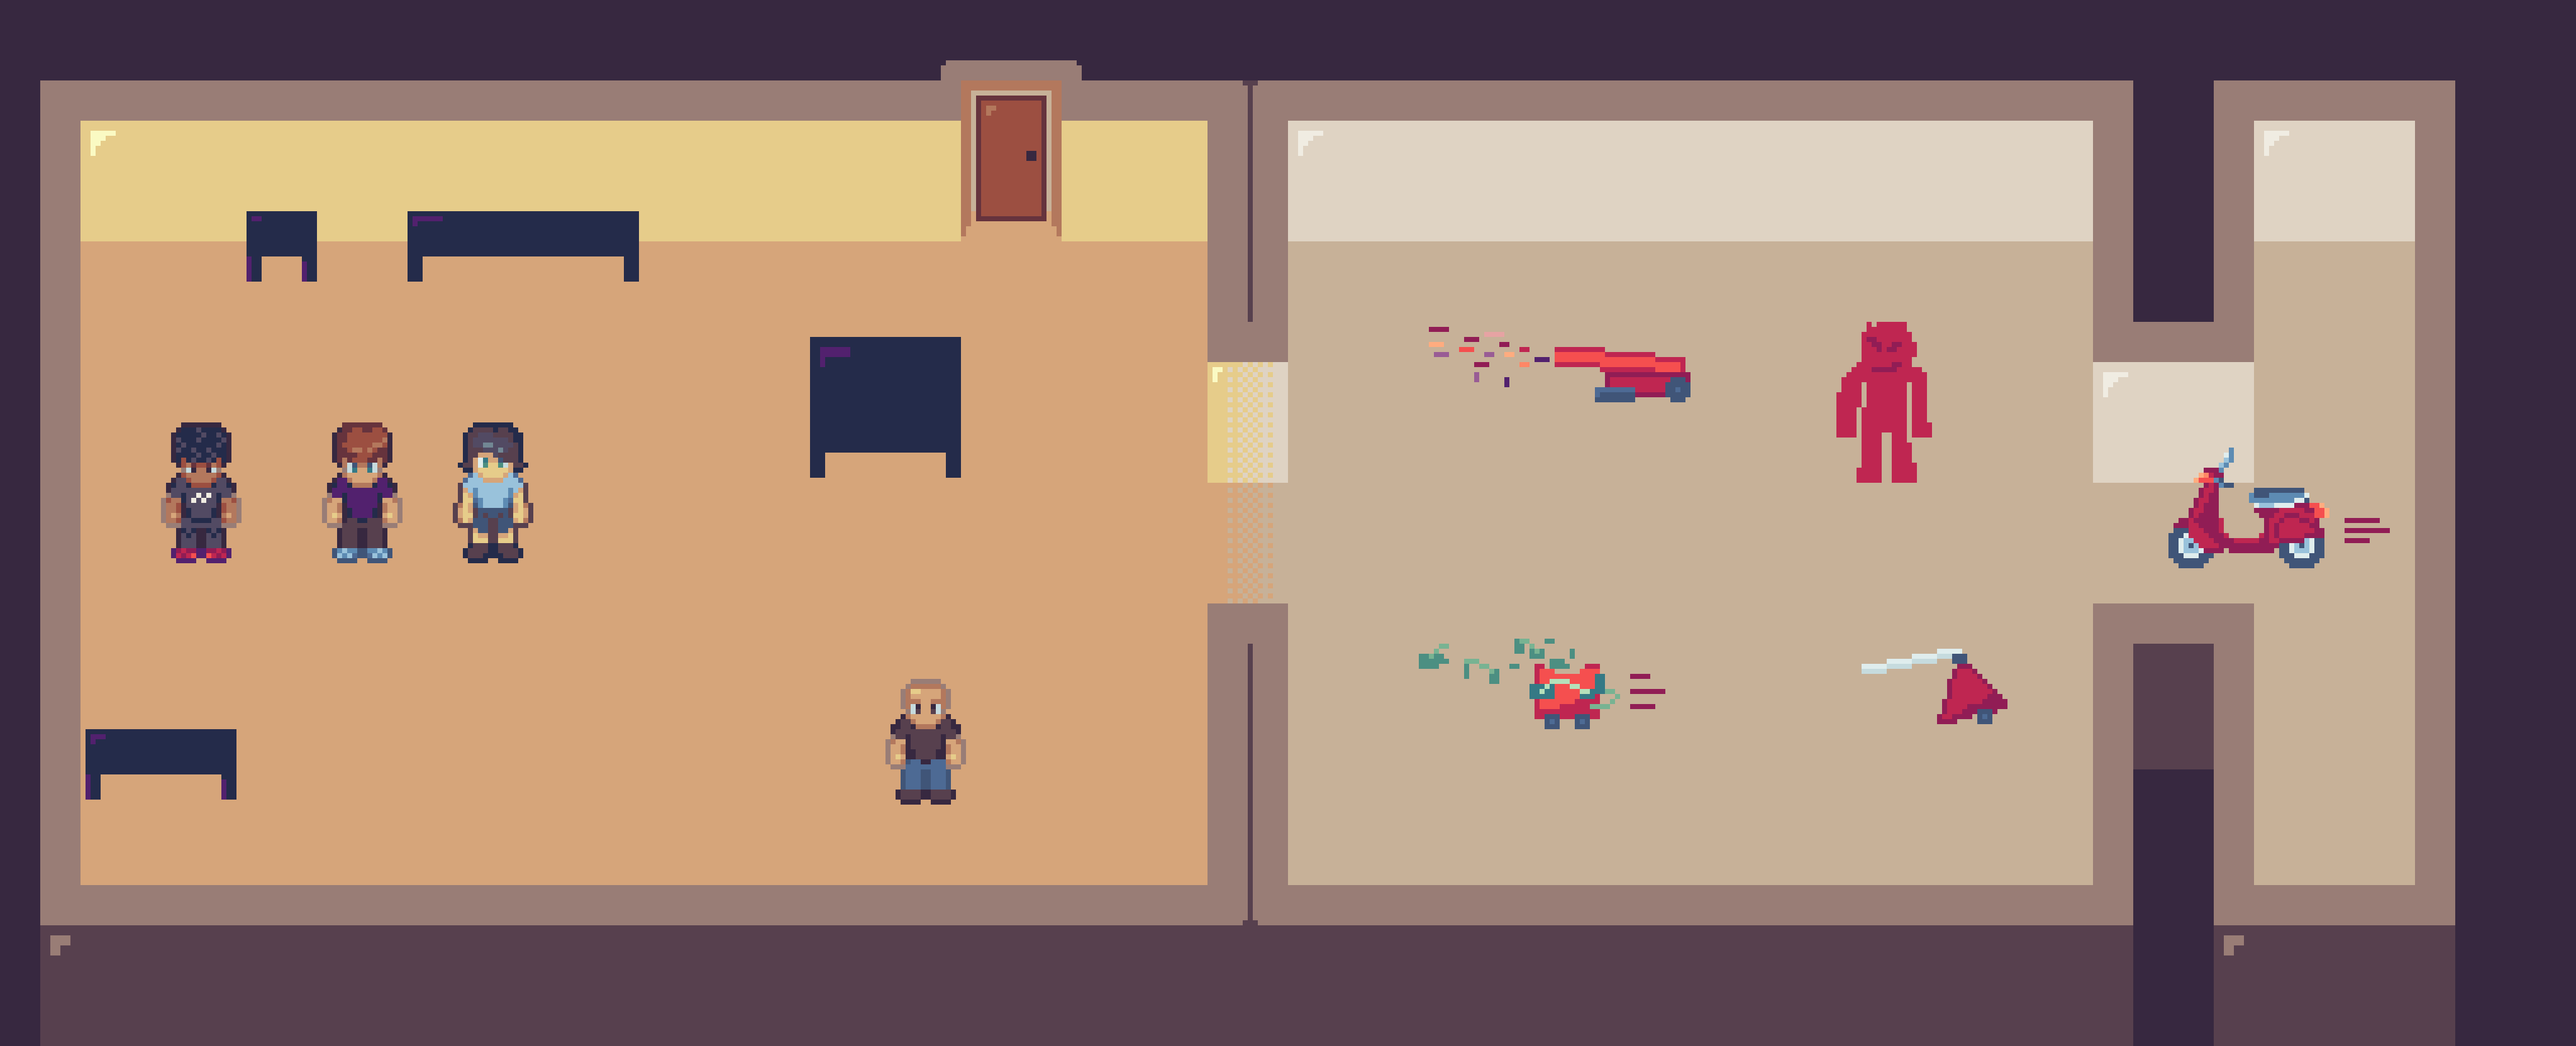
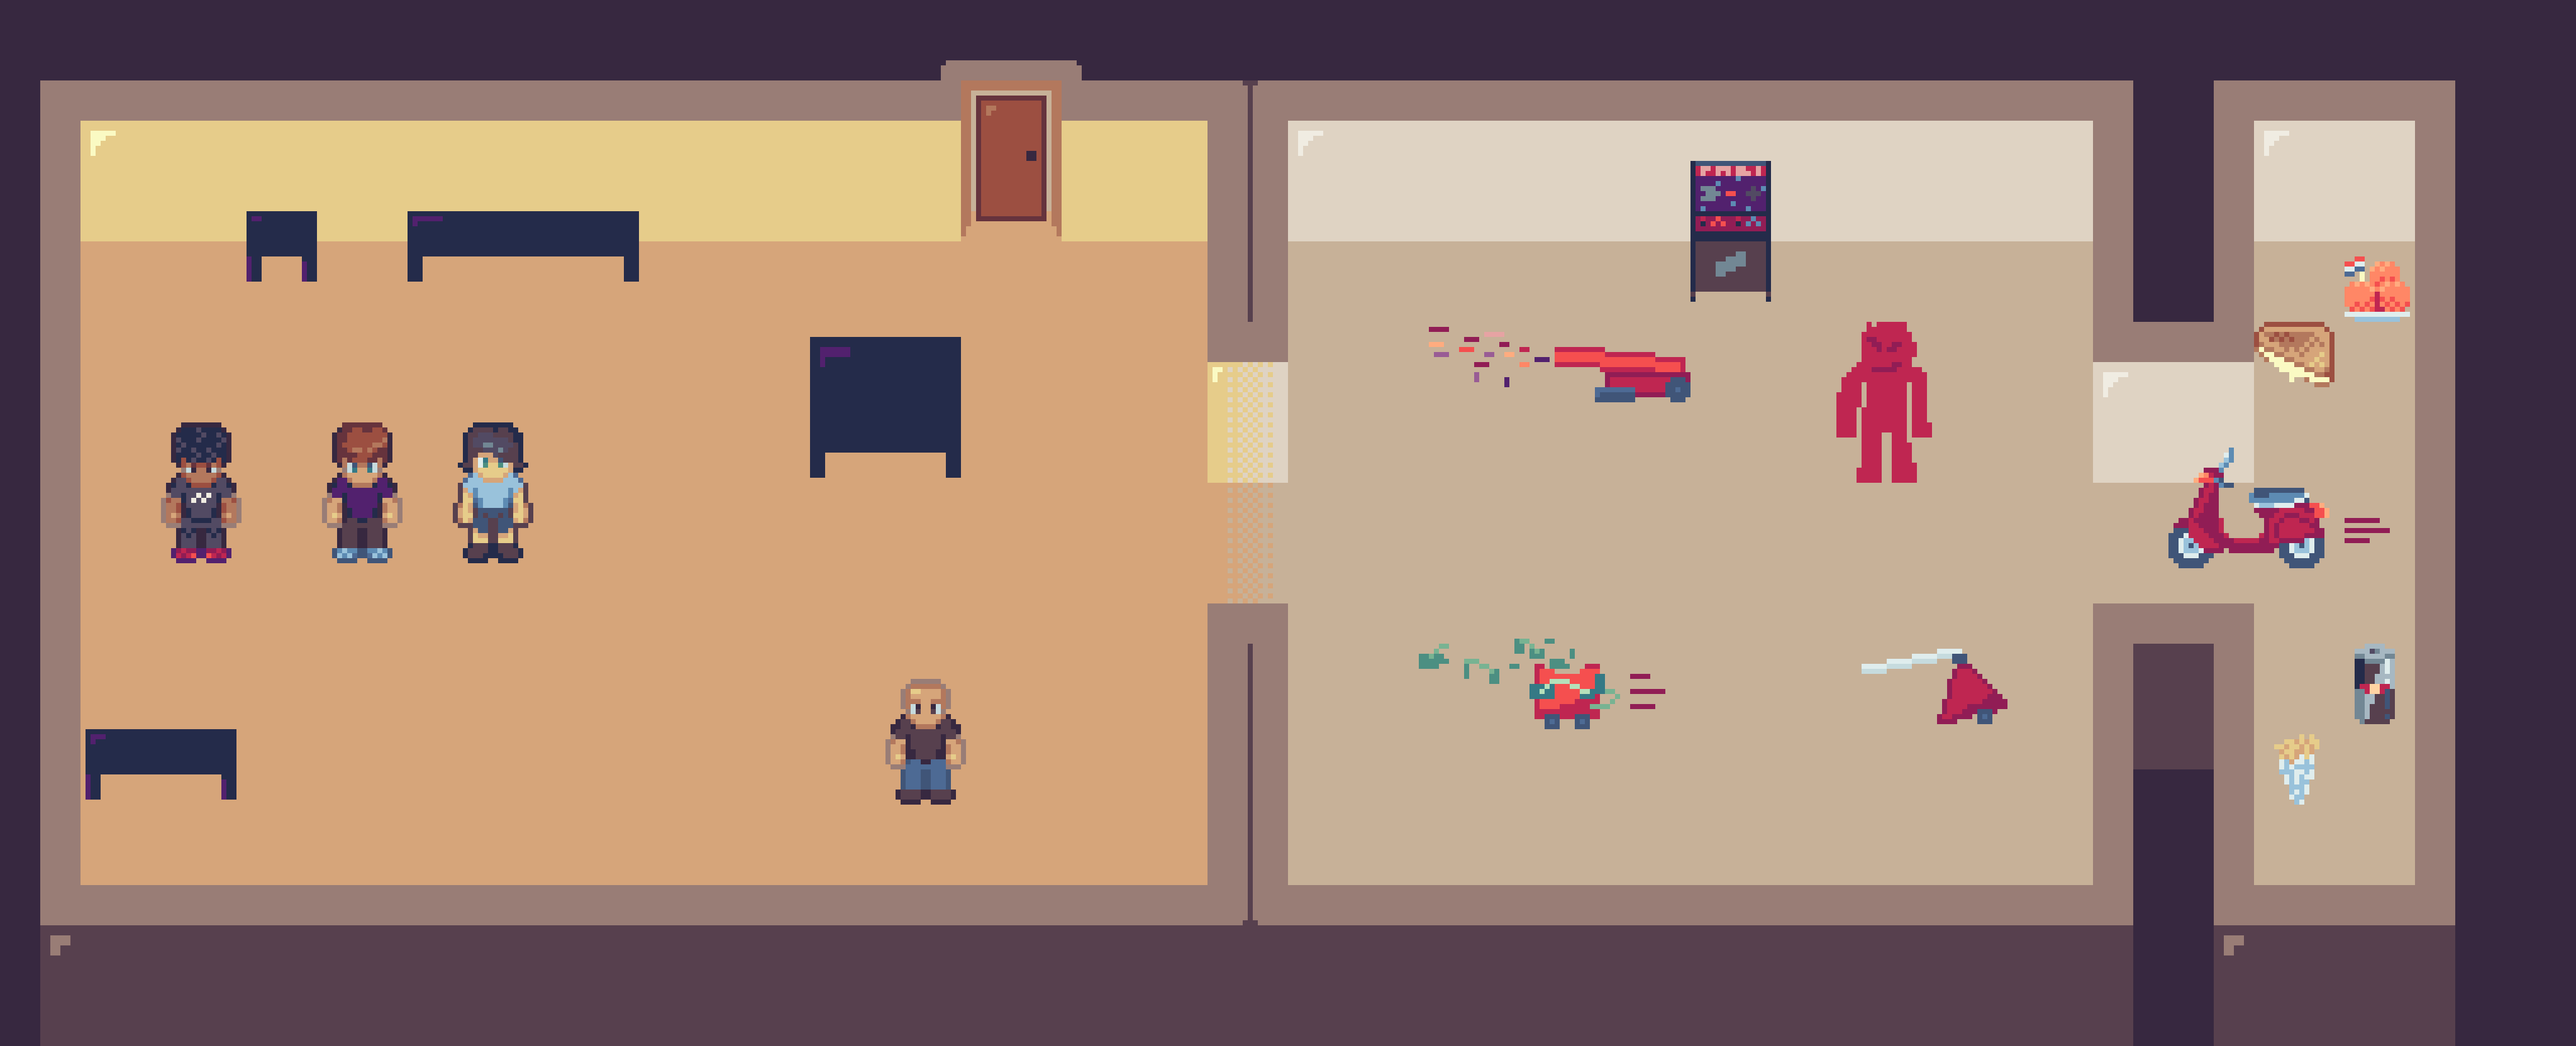
update pixelart

diff --git a/planning.md b/planning.md
@@ -127,7 +127,7 @@ development: (luuk + zino)
 - [x] add player
 - [x] add array van sprites
 
-- [o] make placeholder graphics mvp
+- [x] make placeholder graphics mvp
   - [x] player
   - [x] level tiles generic wood
   - [x] level tiles generic industrial
@@ -144,10 +144,10 @@ development: (luuk + zino)
   - [x] 1x1 table
   - [x] 1x3 table
 
-- [ ] make assetloader
+- [ ] make spritesheet loader
+- [x] add player class
 - [ ] add levelart
 - [ ] add level class, background
-- [ ] add player class
 - [ ] add controls
 - [ ] implement xp bijhouden (zino)
 - [ ] implement health bijhouden (luuk)
@@ -191,10 +191,10 @@ graphic design:
   - [ ] door
   
   - [ ] peercoach npc character
-  - [ ] enemy #1
-  - [ ] enemy #2
-  - [ ] enemy #3
-  - [ ] enemy #4
+  - [o] enemy #1
+  - [o] enemy #2
+  - [o] enemy #3
+  - [o] enemy #4
   - [ ] boss
 
   - [ ] UI
@@ -220,6 +220,8 @@ graphic design:
   - [o] arcade machine
   - [ ] coffee machine
   - [x] item: redbull
+  - [x] item: bitterballen
+  - [x] item: patatje
 
 ## ...
 
